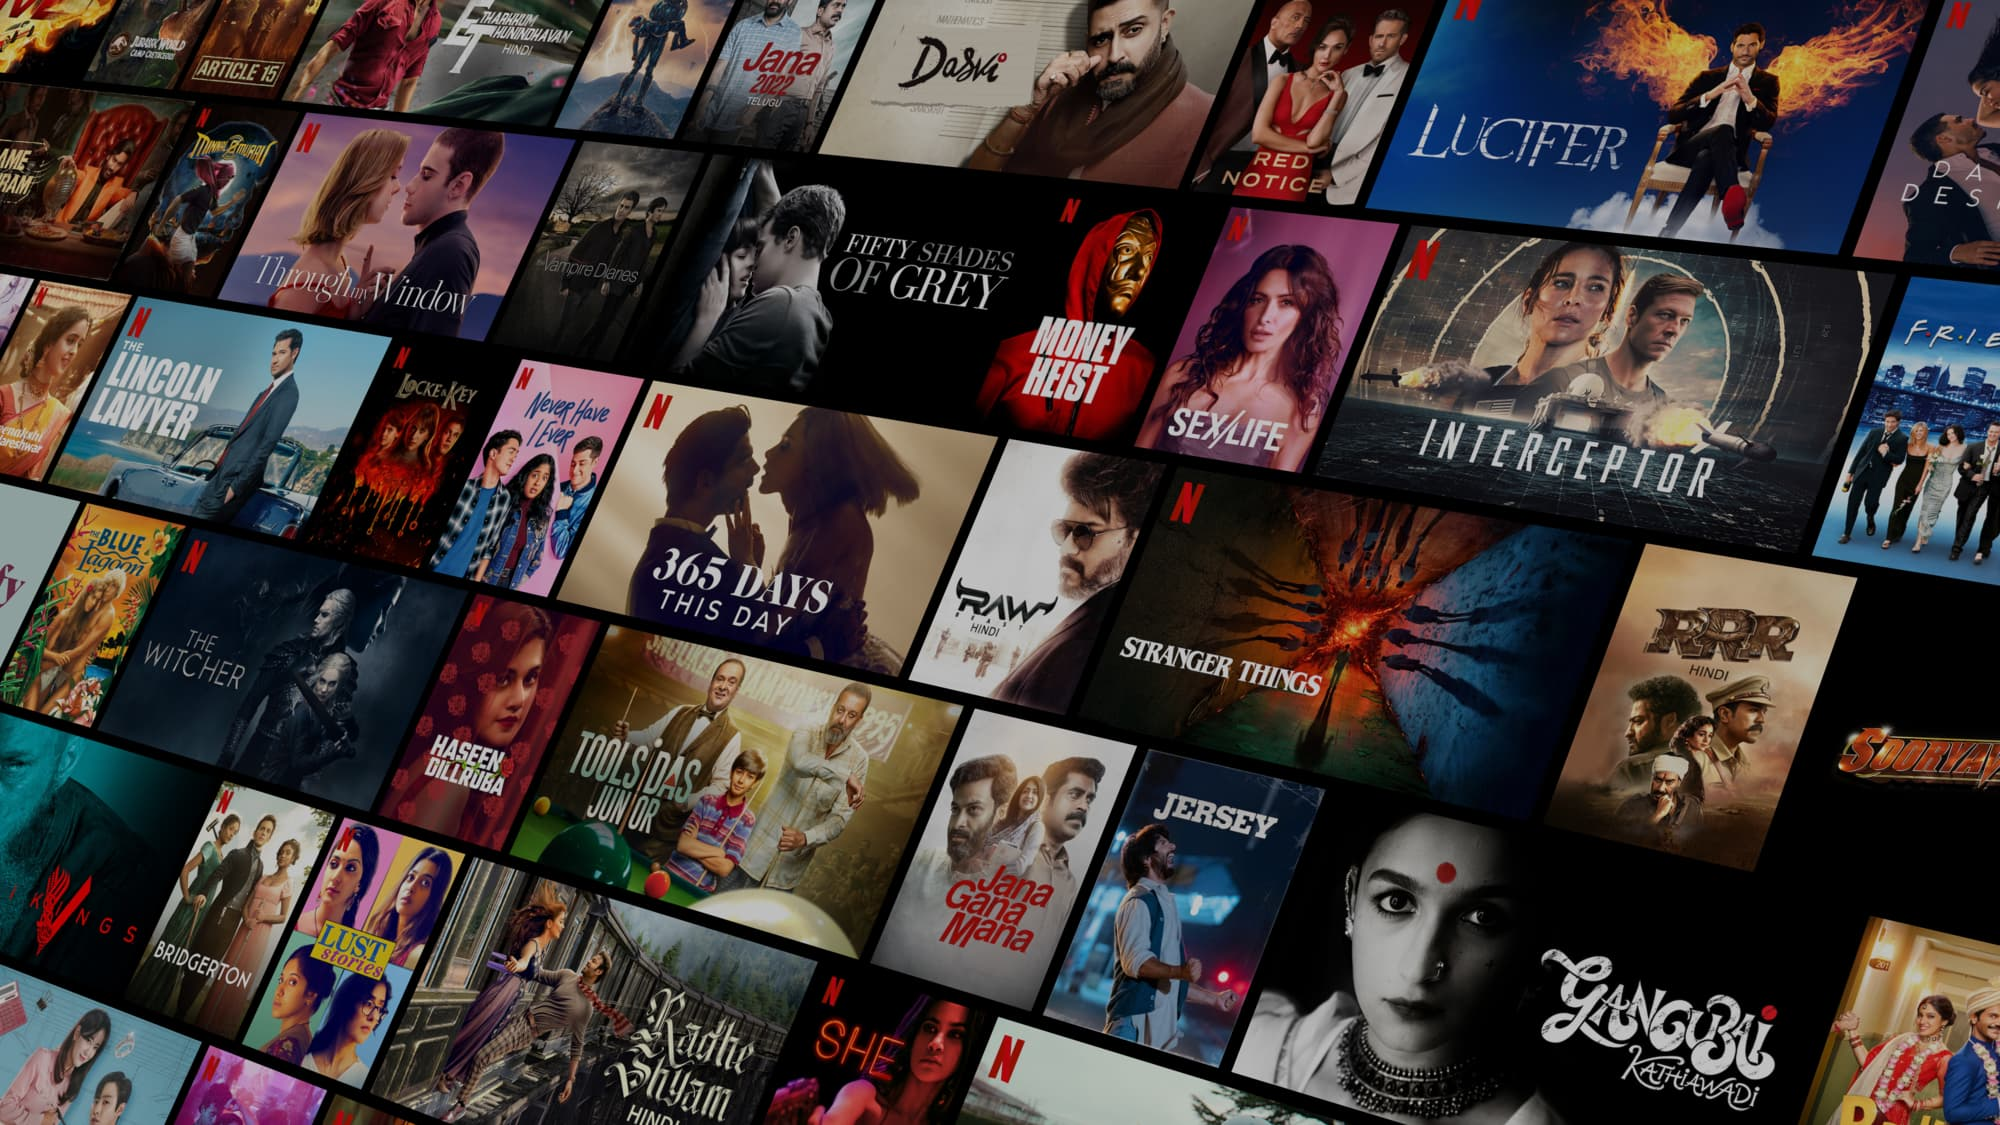
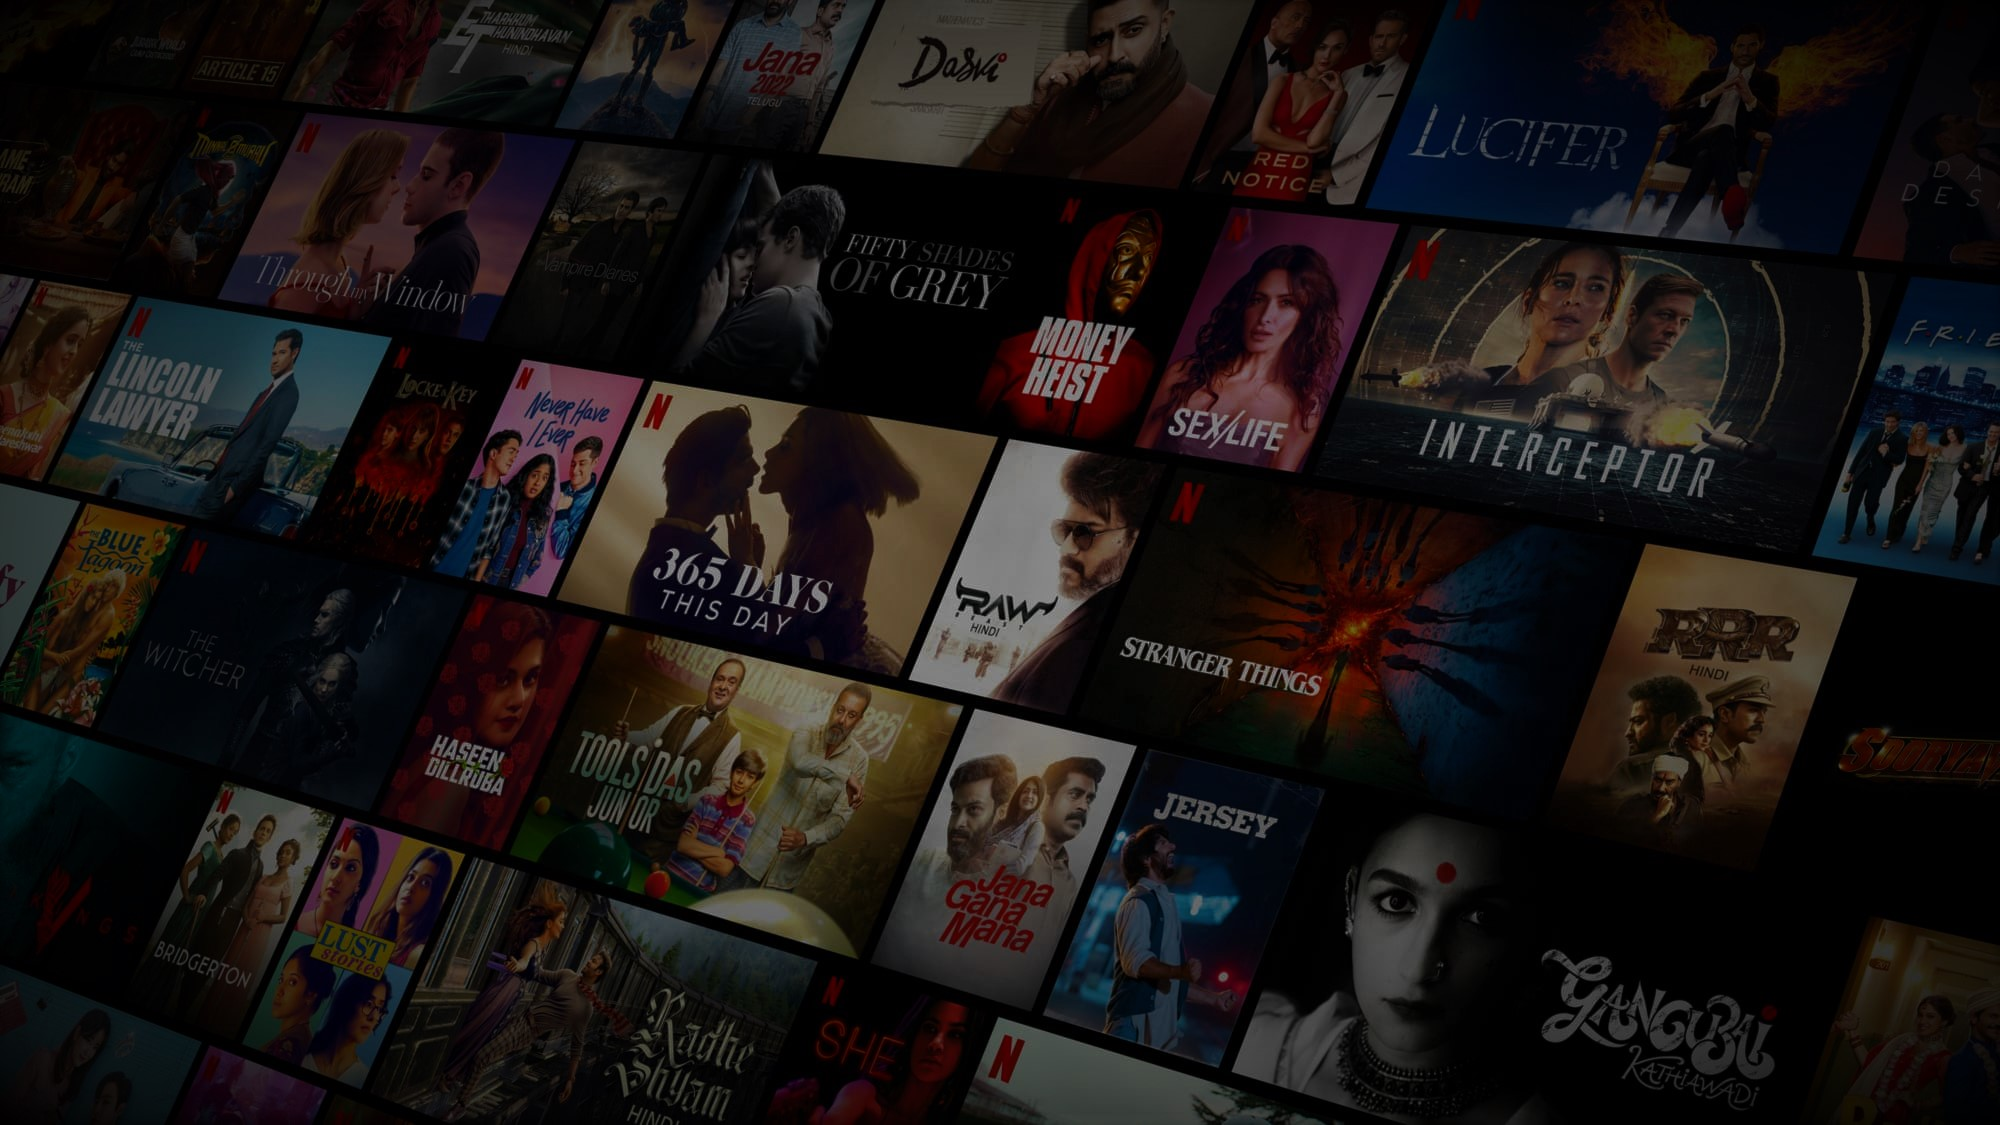
Landing page UI 50% done

diff --git a/client/src/pages/Landing/Landing.jsx b/client/src/pages/Landing/Landing.jsx
@@ -1,0 +1,31 @@
+import { Box, Button, Heading, Input, Text } from "@chakra-ui/react";
+import { netflixBackgroundImage } from "../../Constants/Images";
+import { AiOutlineRight } from "react-icons/ai";
+
+export const Landing = () => {
+
+    return (
+        <>
+            <Box>
+                <Box border={'1px solid black'} minH={'100vh'} backgroundImage={netflixBackgroundImage} bgSize={'cover'}>
+
+                    <Box display={'flex'} justifyContent={'space-between'} px={'50px'} py={'20px'}>
+                        <Heading color={'#e50914'}>NETFLIX</Heading>
+                        <Button bg={'#e50914'} color={'white'} _hover={{ bg: '#e50914' }}>Sign In</Button>
+                    </Box>
+
+                    <Box maxW={'700px'} m={'20vh auto auto'} textAlign='center' color={'white'}>
+                        <Heading fontSize={'65px'}>Unlimited movies, TV shows and more.</Heading>
+                        <Text fontSize={'25px'} mt={'20px'} fontWeight={600}>Watch anywhere. Cancel anytime.</Text>
+                        <Text fontSize={'20px'} mt={'20px'} fontWeight={600}>Ready to watch? Enter your email to create or restart your membership.</Text>
+                        <Box mt={'20px'} display={'flex'} justifyItems={'center'}>
+                            <Input borderRadius={'0px'} h={'70px'} type={'email'} size='lg' bg={'white'} color={'black'} placeholder='Email address' />
+                            <Button rightIcon={<AiOutlineRight />} borderRadius={'0px'} h={'70px'} bg={'#e30813'} _hover={{ bg: '#e50914' }} fontSize={'25px'} px={'60px'}>Get Started</Button>
+                        </Box>
+                    </Box>
+
+                </Box>
+            </Box>
+        </>
+    );
+};

diff --git a/client/src/pages/Auth/Login.jsx b/client/src/pages/Auth/Login.jsx
@@ -27,7 +27,7 @@ export const Login = () => {
 
     return (
         <>
-            <Box minH={'100vh'} pt={'80px'} backgroundImage={netflixBackgroundImage}>
+            <Box minH={'100vh'} pt={'80px'} backgroundImage={netflixBackgroundImage} bgSize={'cover'}>
                 <Box m={'auto'} maxW={'450px'} bg={'blackAlpha.800'} h={'600px'} p={'70px'}>
                     <Heading color={'white'} mb={'30px'}>Sign In</Heading>
                     <Input onInput={handleInputChange} value={login.email} name="email" type={'email'} mb={'20px'} h={'50px'} color={'white'} bg={'#333333'} border={'none'} placeholder='Email' />

diff --git a/client/src/routes/Router.jsx b/client/src/routes/Router.jsx
@@ -1,6 +1,7 @@
 import { Route, Routes } from "react-router-dom";
 import { Login } from "../pages/Auth/Login";
 import Browse from "../pages/Browse/Browse";
+import { Landing } from "../pages/Landing/Landing";
 
 export const Router = () => {
 
@@ -8,6 +9,7 @@ export const Router = () => {
         <>
             <Routes>
                 <Route path="/" element={<Browse />} />
+                <Route path="/landing" element={<Landing />} />
                 <Route path="/login" element={<Login />} />
             </Routes>
         </>
